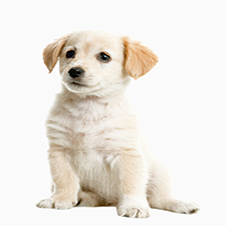
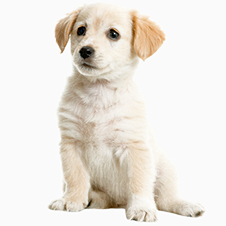
poprawa wizualna sekcji carousel, poprawa jakosci zdjęc, dodanie pozostałych elementów h1 oraz przycisku do sekcji carousel

Changed region(s): [[0.1549, 0.0, 0.8982, 0.9912], [0.5265, 0.4646, 0.6195, 0.5265]]

diff --git a/docs/assets/css/main.css b/docs/assets/css/main.css
@@ -361,13 +361,13 @@ body {
   color: #292929;
   background-color: #F1CDB3;
   border: 1px solid #F1CDB3;
-  border-radius: 26px;
+  border-radius: 30px;
   font-family: Georgia;
   letter-spacing: 0.1em;
   margin: 0 0 0 5px;
   transition: 0.3s all;
   cursor: pointer;
-  padding: 15px 25px 15px 25px; }
+  padding: 18px 44px 18px 44px; }
   .btn-mandys a:hover {
     text-decoration: none;
     color: #292929;
@@ -524,14 +524,16 @@ body {
   padding: 89px 0 89px 0; }
 
 .carousel-loop {
-  background: #f6f6f6; }
+  background: #f6f6f6;
+  text-align: center;
+  padding: 78px 0 68px 0; }
 
 .carousel-cell {
   width: 270px;
   height: 424px;
   border-radius: 9px;
   background: #fafafa;
-  margin: 0 25px 0 25px;
+  margin: 66px 40px 66px 40px;
   display: flex;
   align-items: center;
   justify-content: center;
@@ -543,6 +545,22 @@ body {
 .flickity-button {
   border: 2px solid #F1CDB3;
   width: 50px;
-  height: 50px; }
+  height: 50px;
+  background: #ffffff00; }
   .flickity-button:hover {
     background: #F1CDB3; }
+
+.flickity-prev-next-button.next {
+  background: #F1CDB3; }
+
+.flickity-slider {
+  width: 1078px; }
+  @media (max-width: 1247px) {
+    .flickity-slider {
+      width: 100%; } }
+
+.flickity-viewport {
+  width: 1018px; }
+  @media (max-width: 1247px) {
+    .flickity-viewport {
+      width: 100%; } }

diff --git a/src/assets/scss/helpers/_typography.scss b/src/assets/scss/helpers/_typography.scss
@@ -1,26 +1,26 @@
 p {
-    margin: 0 0 20px;
-    font-family: 'Lato', sans-serif;
-    line-height: 1.600em;
+  margin: 0 0 20px;
+  font-family: 'Lato', sans-serif;
+  line-height: 1.600em;
 }
 
 h1 {
-    font-size: 44px;
-    line-height: 1.2em;
-    font-family: $second-font;
+  font-size: 44px;
+  line-height: 1.2em;
+  font-family: $second-font;
 }
 
 h2 {
-    font-size: 35px;
-    line-height: 1.286em;
-    letter-spacing: 0.1em;
-    font-family: $second-font;
-    color: $emperor;
-    margin: 0 0 28px;
+  font-size: 35px;
+  line-height: 1.286em;
+  letter-spacing: 0.1em;
+  font-family: $second-font;
+  color: $emperor;
+  margin: 0 0 28px;
 }
 
 h3 {
-    font-size: 32px;
-    line-height: 1.286em;
-    letter-spacing: 0.1em;
+  font-size: 32px;
+  line-height: 1.286em;
+  letter-spacing: 0.1em;
 }

diff --git a/src/assets/scss/carousel/carousel.scss b/src/assets/scss/carousel/carousel.scss
@@ -1,12 +1,14 @@
 .carousel-loop {
   background: $wild-sand;
+  text-align: center;
+  padding: 78px 0 68px 0;
 }
 .carousel-cell {
   width: 270px;
   height: 424px;
   border-radius: 9px;
   background: $alabaster;
-  margin: 0 25px 0 25px;
+  margin: 66px 40px 66px 40px;
   display: flex;
   align-items: center;
   justify-content: center;
@@ -21,7 +23,25 @@
   border: 2px solid $mandys-pink;
   width: 50px;
   height: 50px;
+  background:#ffffff00;
   &:hover {
     background: $mandys-pink;
+  }
+}
+.flickity-prev-next-button.next {
+  background: $mandys-pink;
+}
+.flickity-slider {
+  width: 1078px;
+
+  @include media('<desktop') {
+    width: 100%;
+  }
+}
+.flickity-viewport {
+  width: 1018px;
+
+  @include media('<desktop') {
+    width: 100%;
   }
 }

diff --git a/docs/index.html b/docs/index.html
@@ -71,6 +71,7 @@
         </section>
         <section class="carousel-loop">
           <div class="container">
+            <h2>Our friends who <br>are looking for a house</h2>
             <div class="carousel">
               <div class="carousel-cell">
                 <img src="assets/images/pets-image-element-1.png" alt="">
@@ -98,7 +99,9 @@
                 <div class="btn-mandys-filled"><a href="#" >Learn more</a></div>      
               </div>
             </div>
-    
+            <div class="btn-mandys">
+              <a href="#" > Get to know the rest</a>
+            </div>  
           </div>
         </section>
     </main>

diff --git a/src/assets/js/modules/carousel.js b/src/assets/js/modules/carousel.js
@@ -1,13 +1,13 @@
 const carouselOptions = {
-    groupCells: 3,
-    pageDots: false,
-    arrowShape: { 
-        x0: 20,
-        x1: 50, y1: 25,
-        x2: 40, y2: 5,
-        x3: 85,
-        x4: 100, y4:50
-      }
+  groupCells: 3,
+  pageDots: false,
+  arrowShape: { 
+    x0: 20,
+    x1: 50, y1: 25,
+    x2: 40, y2: 5,
+    x3: 85,
+    x4: 100, y4:50
+  }
 };
     
 $('.carousel').flickity(carouselOptions);

diff --git a/src/assets/scss/helpers/_buttons.scss b/src/assets/scss/helpers/_buttons.scss
@@ -21,13 +21,13 @@
   color:$mine-shaft;
   background-color: $mandys-pink;
   border: 1px solid $mandys-pink;
-  border-radius: 26px;
+  border-radius: 30px;
   font-family: $second-font;
   letter-spacing: 0.1em;
   margin: 0 0 0 5px;
   transition: 0.3s all;
   cursor: pointer;
-  padding: 15px 25px 15px 25px;
+  padding: 18px 44px 18px 44px;
      
     &:hover {
       text-decoration: none;

diff --git a/src/pages/carousel/carousel-loop.html b/src/pages/carousel/carousel-loop.html
@@ -1,5 +1,6 @@
 <section class="carousel-loop">
   <div class="container">
+    <h2>Our friends who <br>are looking for a house</h2>
     <div class="carousel">
       @@loop('carousel.html', [
         {
@@ -28,6 +29,8 @@
         }
       ])
     </div>
-    
+    <div class="btn-mandys">
+      <a href="#" > Get to know the rest</a>
+    </div>  
   </div>
 </section>

diff --git a/src/assets/scss/helpers/_general.scss b/src/assets/scss/helpers/_general.scss
@@ -1,11 +1,8 @@
-
 body {
-    font-family: $main-font;
+  font-family: $main-font;
 }
 
 .container {
-    margin: 0 auto;
-    
-    @include media('>desktop') {
-    }
+  margin: 0 auto;
+	
 }
